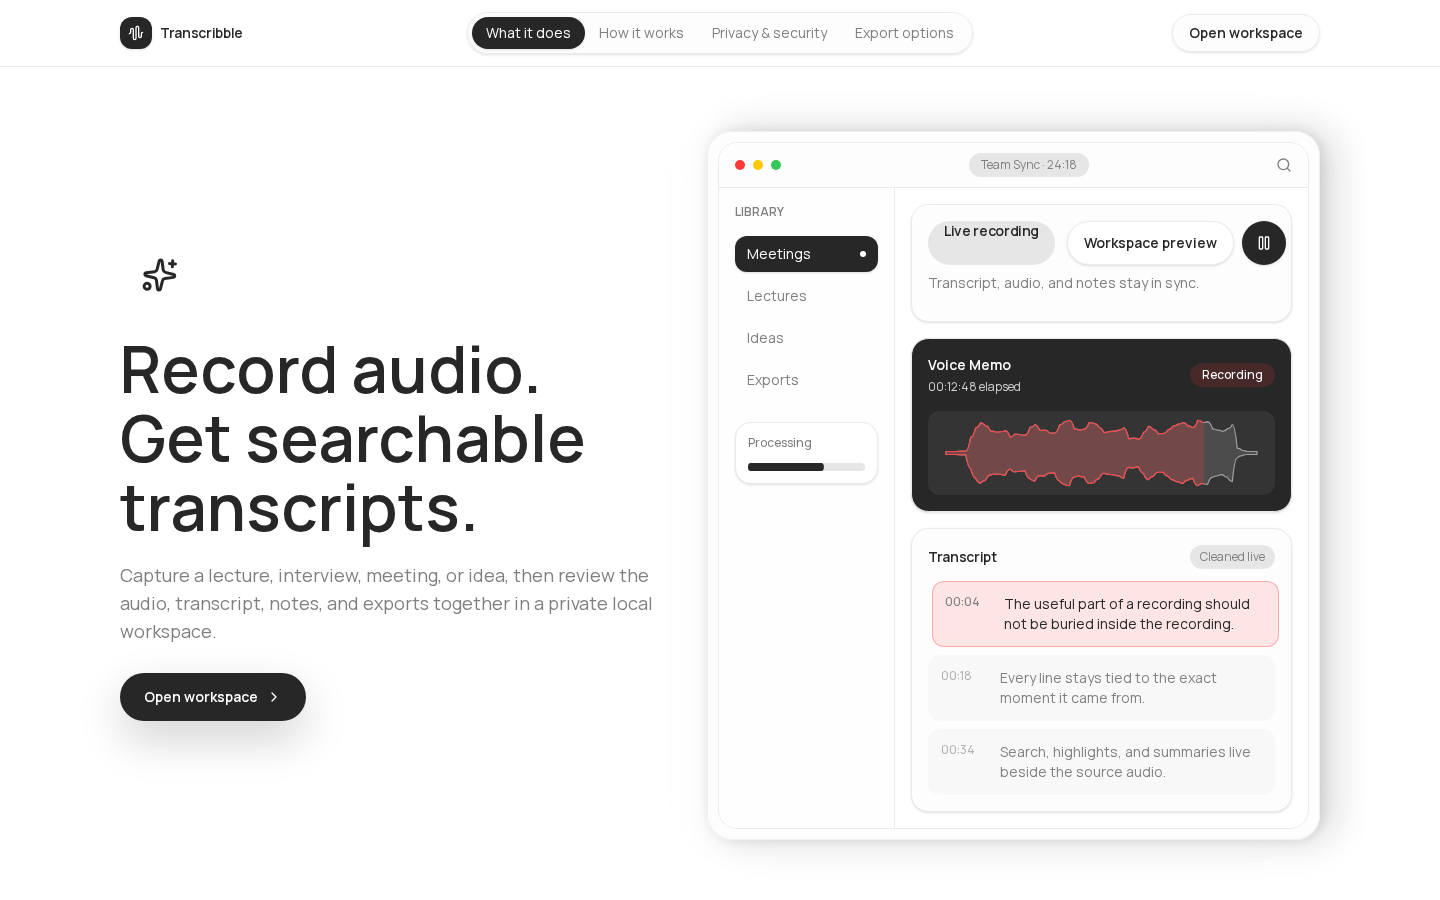
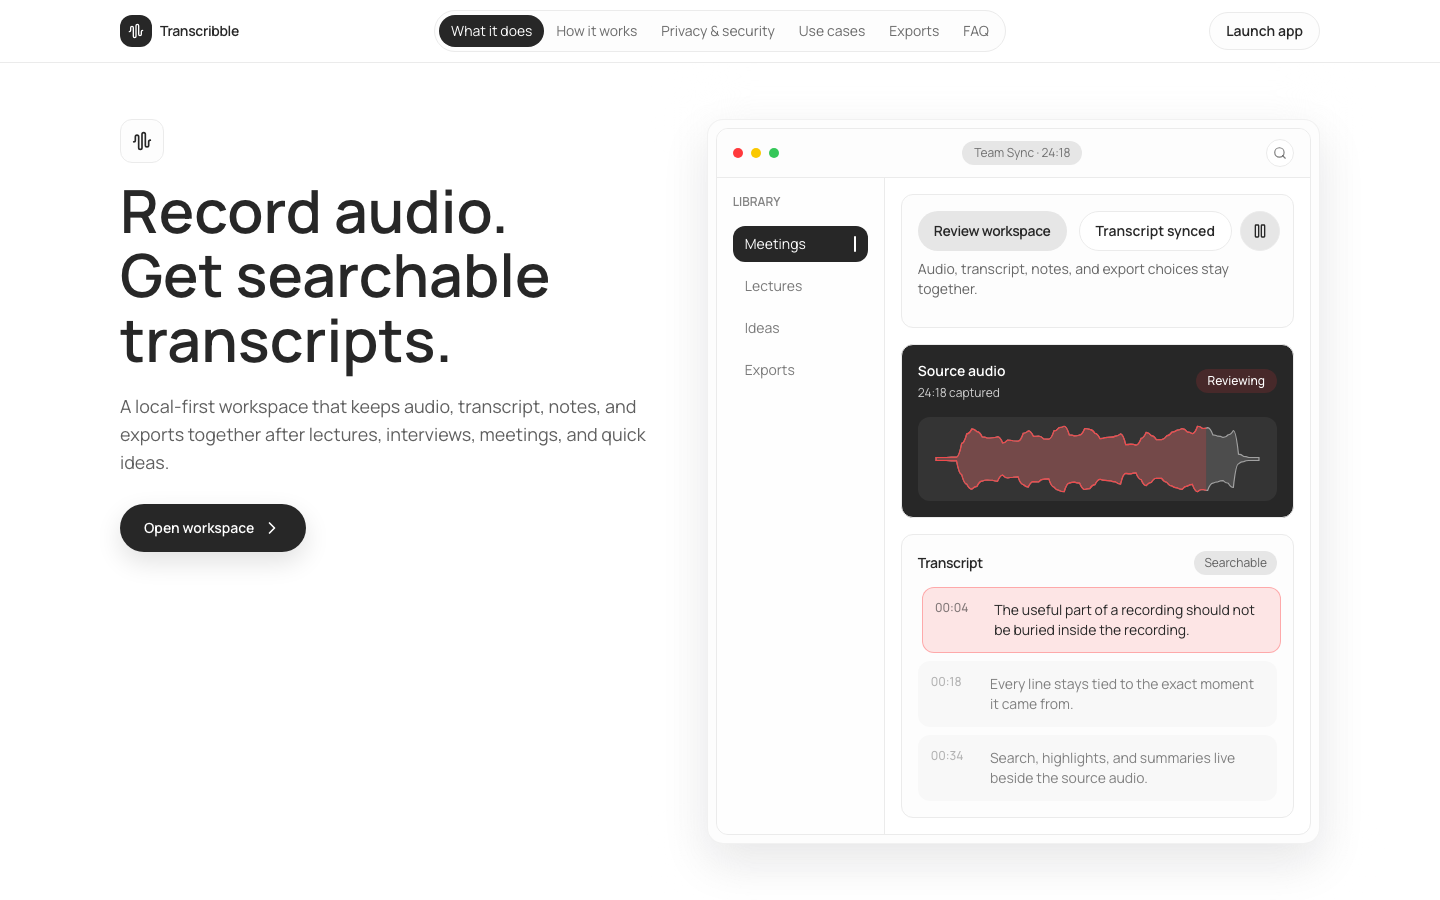
Publish public docs

diff --git a/README.md b/README.md
@@ -17,18 +17,18 @@ Transcribble presents a calm recording and transcript workspace for lectures, in
 
 ## What You Can Do Today
 
-| Area | Current public flow |
-| --- | --- |
-| Open the workspace | Use the public Open workspace action from the homepage. |
-| Record or bring audio into the flow | Use the workspace direction for recording and source capture. |
-| Review transcript material | Use the transcript workspace model to read, organize, and shape captured material. |
-| Export useful files | Use the public export options for TXT, Markdown, SRT, and VTT when available in the workspace. |
+| Area                                | Current public flow                                                                |
+| ----------------------------------- | ---------------------------------------------------------------------------------- |
+| Launch the app                      | Use Launch app or Open workspace from the public homepage.                         |
+| Record or bring audio into the flow | Use the workspace direction for recording and source capture.                      |
+| Review transcript material          | Use the transcript workspace model to read, organize, and shape captured material. |
+| Export useful files                 | Use Open export flow for TXT, Markdown, SRT, and VTT transcript exports.           |
 
 ## Start Here
 
-1. Open the homepage and choose Open workspace.
+1. Open the homepage and choose Launch app or Open workspace.
 2. Capture or import the source material for transcription work.
-3. Review the transcript and export the format that matches the next use.
+3. Review the transcript and use Open export flow for the format that matches the next use.
 
 ## Guide Index
 
@@ -43,7 +43,7 @@ Transcribble presents a calm recording and transcript workspace for lectures, in
 
 ## Current Status
 
-The public marketing homepage and Open workspace path are live, with visible sections for recording, transcription, organization, privacy, and export options.
+The public marketing homepage and app launch path are live, with visible sections for what it does, how it works, privacy and security, use cases, exports, and FAQ.
 
 ## Updates
 

diff --git a/overview.md b/overview.md
@@ -4,19 +4,19 @@ Transcribble presents a calm recording and transcript workspace for lectures, in
 
 ## Public Surface
 
-The public marketing homepage and Open workspace path are live, with visible sections for recording, transcription, organization, privacy, and export options.
+The public marketing homepage and app launch path are live, with visible sections for what it does, how it works, privacy and security, use cases, exports, and FAQ.
 
 ## Current Public Actions
 
-| Area | Current public flow |
-| --- | --- |
-| Open the workspace | Use the public Open workspace action from the homepage. |
-| Record or bring audio into the flow | Use the workspace direction for recording and source capture. |
-| Review transcript material | Use the transcript workspace model to read, organize, and shape captured material. |
-| Export useful files | Use the public export options for TXT, Markdown, SRT, and VTT when available in the workspace. |
+| Area                                | Current public flow                                                                |
+| ----------------------------------- | ---------------------------------------------------------------------------------- |
+| Launch the app                      | Use Launch app or Open workspace from the public homepage.                         |
+| Record or bring audio into the flow | Use the workspace direction for recording and source capture.                      |
+| Review transcript material          | Use the transcript workspace model to read, organize, and shape captured material. |
+| Export useful files                 | Use Open export flow for TXT, Markdown, SRT, and VTT transcript exports.           |
 
 ## Best First Step
 
-1. Open the homepage and choose Open workspace.
+1. Open the homepage and choose Launch app or Open workspace.
 2. Capture or import the source material for transcription work.
-3. Review the transcript and export the format that matches the next use.
+3. Review the transcript and use Open export flow for the format that matches the next use.

diff --git a/product-guide.md b/product-guide.md
@@ -4,21 +4,21 @@ Use this page as the practical user manual for the public surface that is availa
 
 ## Main Flow
 
-1. Open the homepage and choose Open workspace.
+1. Open the homepage and choose Launch app or Open workspace.
 2. Capture or import the source material for transcription work.
-3. Review the transcript and export the format that matches the next use.
+3. Review the transcript and use Open export flow for the format that matches the next use.
 
 ## Current Actions
 
-| Area | Current public flow |
-| --- | --- |
-| Open the workspace | Use the public Open workspace action from the homepage. |
-| Record or bring audio into the flow | Use the workspace direction for recording and source capture. |
-| Review transcript material | Use the transcript workspace model to read, organize, and shape captured material. |
-| Export useful files | Use the public export options for TXT, Markdown, SRT, and VTT when available in the workspace. |
+| Area                                | Current public flow                                                                |
+| ----------------------------------- | ---------------------------------------------------------------------------------- |
+| Launch the app                      | Use Launch app or Open workspace from the public homepage.                         |
+| Record or bring audio into the flow | Use the workspace direction for recording and source capture.                      |
+| Review transcript material          | Use the transcript workspace model to read, organize, and shape captured material. |
+| Export useful files                 | Use Open export flow for TXT, Markdown, SRT, and VTT transcript exports.           |
 
 ## Notes For Use
 
 - Workspace first: The public flow routes users into one workspace rather than scattering recording, review, and export across unrelated pages.
 - Local-first posture: The public copy emphasizes local control for recordings and transcript work.
-- Export model: The visible export formats are plain transcript text, Markdown, SRT captions, and VTT captions.
+- Export model: The visible export formats are TXT, Markdown, SRT captions, and VTT captions.

diff --git a/build-and-run.md b/build-and-run.md
@@ -7,13 +7,13 @@
 
 ## Use The Current Flow
 
-1. Open the homepage and choose Open workspace.
+1. Open the homepage and choose Launch app or Open workspace.
 2. Capture or import the source material for transcription work.
-3. Review the transcript and export the format that matches the next use.
+3. Review the transcript and use Open export flow for the format that matches the next use.
 
 ## Current Availability
 
-The public marketing homepage and Open workspace path are live, with visible sections for recording, transcription, organization, privacy, and export options.
+The public marketing homepage and app launch path are live, with visible sections for what it does, how it works, privacy and security, use cases, exports, and FAQ.
 
 ## Automated Public Docs
 

diff --git a/setup.md b/setup.md
@@ -7,9 +7,9 @@
 
 ## Current Use
 
-1. Open the homepage and choose Open workspace.
+1. Open the homepage and choose Launch app or Open workspace.
 2. Capture or import the source material for transcription work.
-3. Review the transcript and export the format that matches the next use.
+3. Review the transcript and use Open export flow for the format that matches the next use.
 
 ## How These Docs Stay Current
 

diff --git a/changelog.md b/changelog.md
@@ -4,6 +4,7 @@
 
 - Refreshed the public docs around the current public Transcribble surface.
 - Added a current homepage screenshot to the README.
+- Updated the guide language for the current Launch app, Open workspace, and Open export flow actions.
 - Updated the publish workflow so homepage screenshots refresh on main-branch updates and the daily sync.
 - Tightened the public guide language to focus on actions users can access now.
 